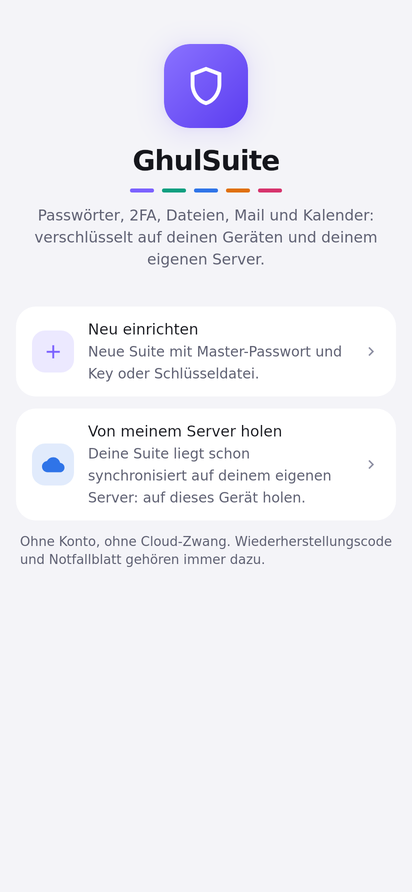
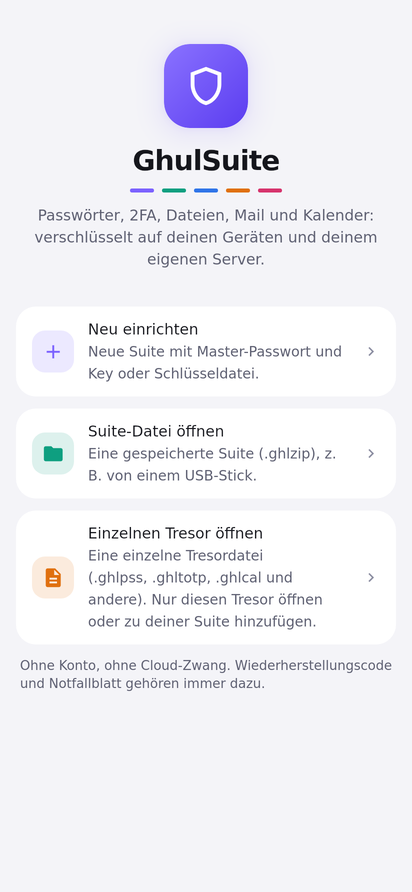
Emulator flow of the suite file, new start and unlock screenshots
- The suite file flow expects what the app does after opening: back at
  the main view; then the page of the suite file names the opened file
  and has nothing unsaved.
- docs/images: the start screen with "Open suite file" and "Open a
  single vault" (no "fetch from my server" any more) and the unlock
  screen without the storage line. The docs screenshots are made
  without a display; a system property shows the file buttons there.

Claude-Session: https://claude.ai/code/session_016kKsyeuVHaMHTWceVg7gg5

Changed region(s): [[0.0291, 0.454, 0.9612, 0.787], [0.0583, 0.4843, 0.1748, 0.5448]]

diff --git a/app/composeApp/src/desktopTest/kotlin/de/danerd/ghulsuite/ScreenshotTest.kt b/app/composeApp/src/desktopTest/kotlin/de/danerd/ghulsuite/ScreenshotTest.kt
@@ -201,7 +201,13 @@ class ScreenshotTest {
     @Test
     fun screens() {
         Locale.setDefault(Locale.GERMAN)
-        render("1-setup") { GhulSuiteApp(state(exists = false, unlocked = false)) }
+        // The start screen as on a device: with the buttons that open a file.
+        System.setProperty("ghul.pickers", "true")
+        try {
+            render("1-setup") { GhulSuiteApp(state(exists = false, unlocked = false)) }
+        } finally {
+            System.clearProperty("ghul.pickers")
+        }
         render("2-unlock") { GhulSuiteApp(state(exists = true, unlocked = false)) }
         render("3-pass") { GhulSuiteApp(state(exists = true, unlocked = true)) }
         render("4-entry") { GhulSuiteApp(state(true, true) { push(Screen.EntryDetail("p1", "1")) }) }

diff --git a/app/composeApp/src/desktopMain/kotlin/de/danerd/ghulsuite/Platform.desktop.kt b/app/composeApp/src/desktopMain/kotlin/de/danerd/ghulsuite/Platform.desktop.kt
@@ -173,7 +173,9 @@ actual fun QrScanner(onResult: (String) -> Unit) {
 
 // --- files: the native Windows dialogs ------------------------------------------------------
 
-actual val filePickersAvailable: Boolean = !GraphicsEnvironment.isHeadless()
+// Screenshots for the docs are made without a display: "ghul.pickers" shows the buttons anyway.
+actual val filePickersAvailable: Boolean
+    get() = System.getProperty("ghul.pickers")?.toBoolean() ?: !GraphicsEnvironment.isHeadless()
 
 private fun chooseOpen(): File? {
     val d = FileDialog(null as Frame?, "", FileDialog.LOAD)
